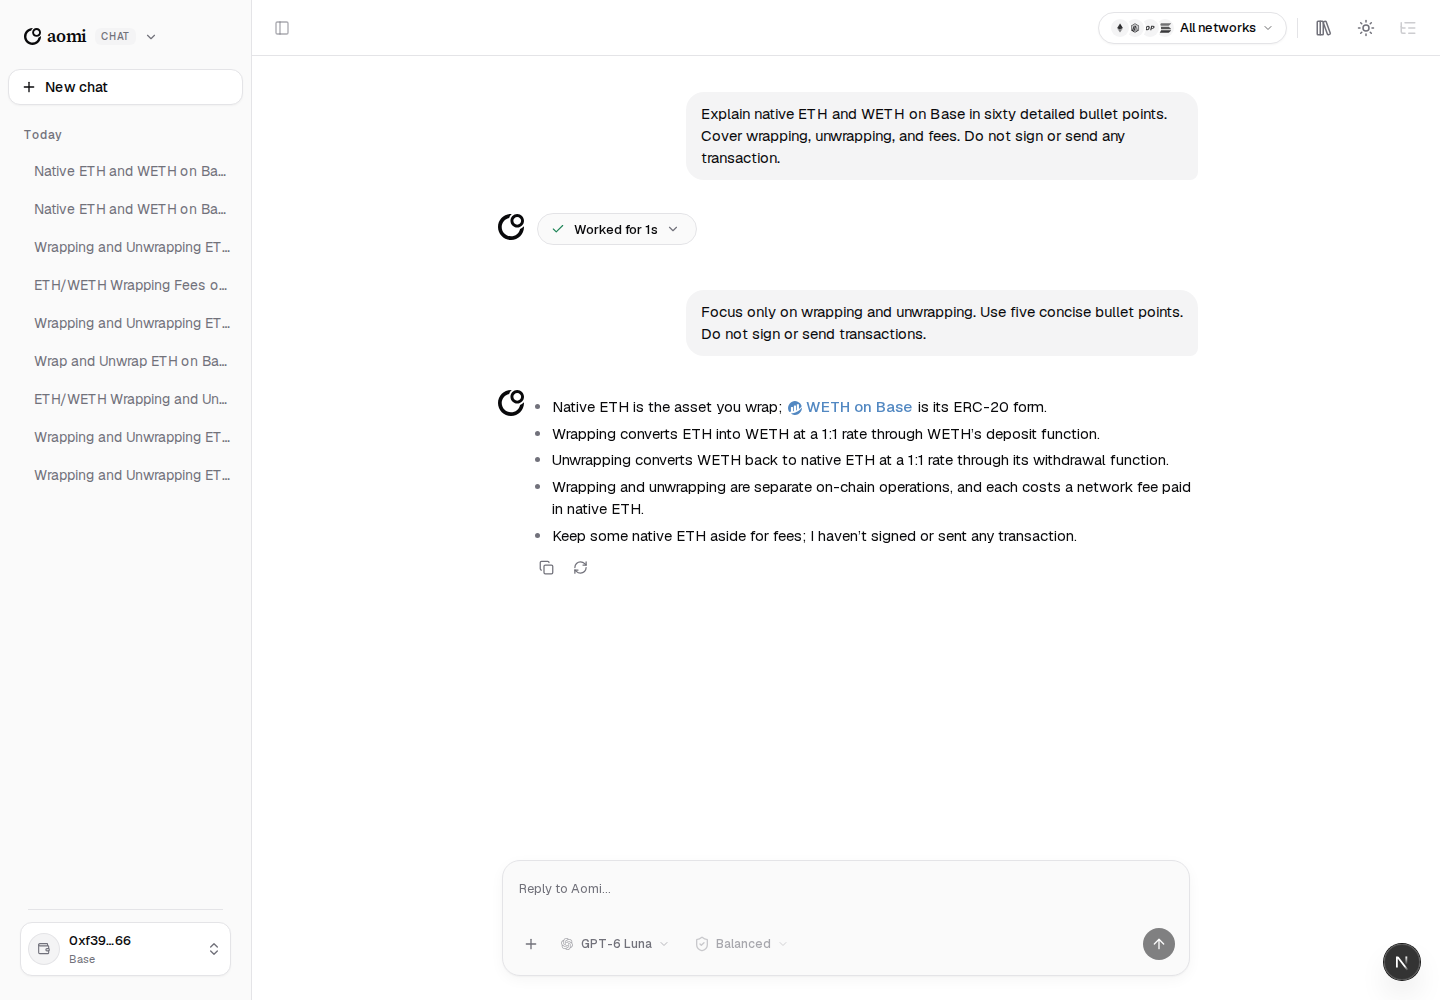
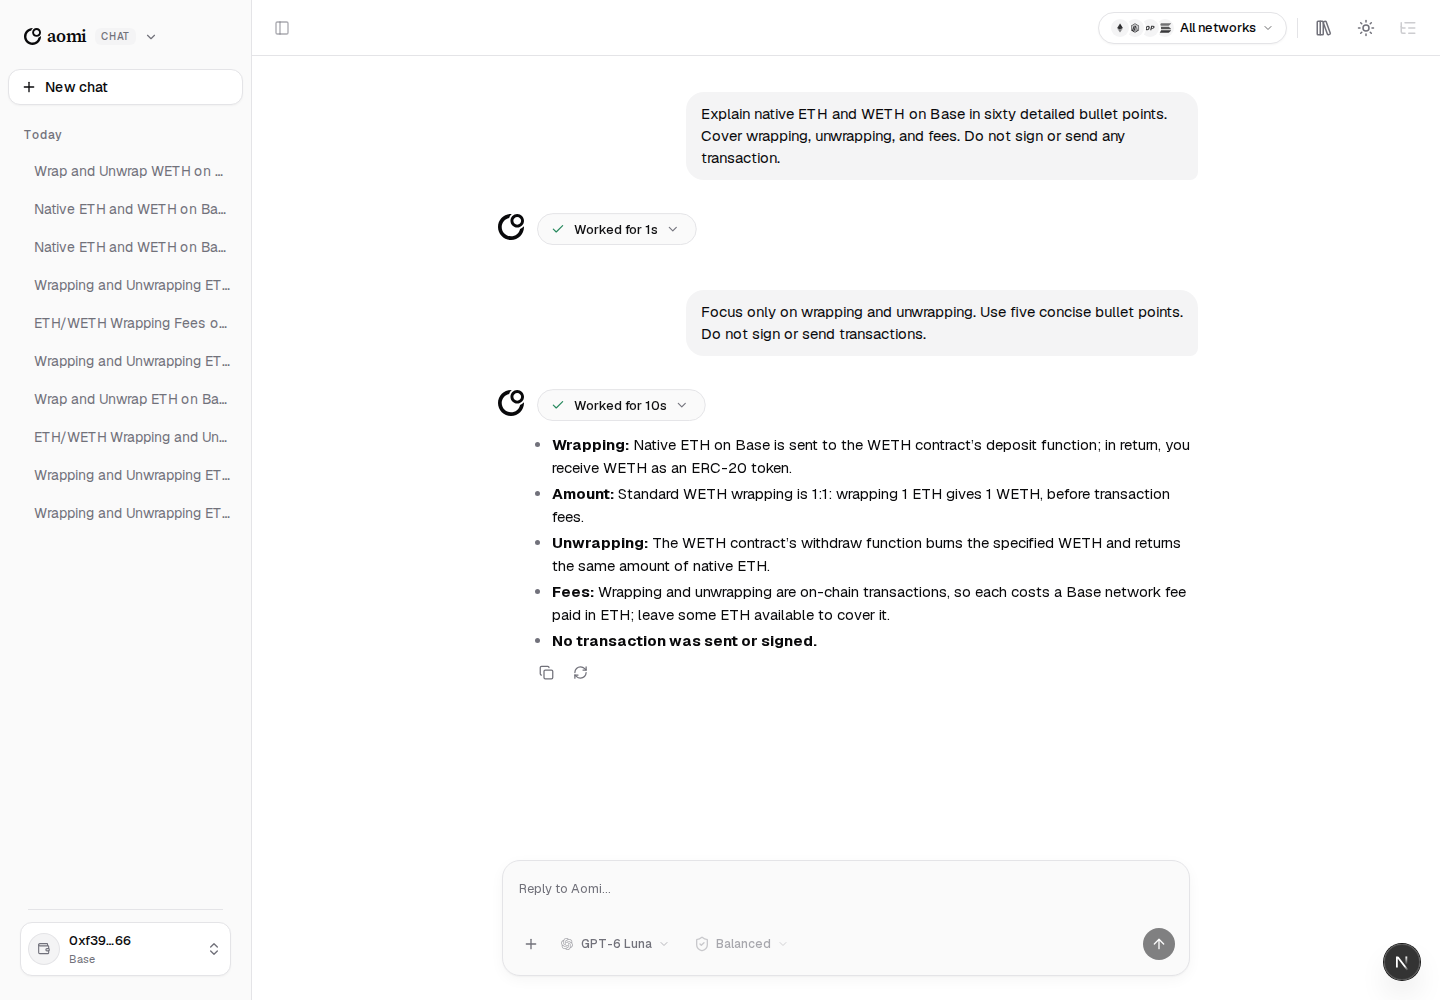
Retain the second working trace after a text-only answer and reload

diff --git a/packages/widget/src/thread/working-trace-integration.test.tsx b/packages/widget/src/thread/working-trace-integration.test.tsx
@@ -362,6 +362,24 @@ it("closes the earlier working trace and continues below an ordinary follow-up",
     ),
   );
   expect(rows[0].querySelector(".aui-working-answer")).toBeNull();
+  expect(view.container.querySelectorAll(".aui-working-trace")).toHaveLength(2);
+  expect(rows[1]).toHaveTextContent("Worked");
+  expect(
+    rows[1]
+      .querySelector(".aui-working-trace")
+      ?.compareDocumentPosition(rows[1].querySelector(".aui-working-answer")!),
+  ).toBe(Node.DOCUMENT_POSITION_FOLLOWING);
+
+  view.unmount();
+  const reloaded = render(<Fixture />);
+  await waitFor(() =>
+    expect(
+      reloaded.container.querySelectorAll(".aui-working-trace"),
+    ).toHaveLength(2),
+  );
+  expect(screen.getAllByTestId("assistant-row")[1]).toHaveTextContent(
+    "Checking Base instead",
+  );
 });
 
 it("retains the earlier empty thinking trace when a follow-up arrives immediately", async () => {

diff --git a/tests/e2e/journeys/shared-steering.spec.ts b/tests/e2e/journeys/shared-steering.spec.ts
@@ -38,6 +38,7 @@ test("ordinary follow-ups stay in the conversation between working traces", asyn
     widget.replies.filter({ hasText: "Research with 5 on Base" }),
   ).toBeVisible();
   await expect(widget.stop).toBeHidden();
+  await expect(widget.page.locator(".aui-working-trace")).toHaveCount(2);
 });
 
 test("an update that loses the completion race remains in the composer", async ({

diff --git a/packages/widget/src/thread/working-trace.tsx b/packages/widget/src/thread/working-trace.tsx
@@ -1150,7 +1150,9 @@ export const AssistantTurnParts: FC = () => {
   );
   return (
     <>
-      {(traceItems.length > 0 || closed) && (
+      {(traceItems.length > 0 ||
+        closed ||
+        (!live && trace?.aomiTraceSegment)) && (
         <WorkingTrace
           key="turn-trace"
           viewKey={messageId}

diff --git a/docs/reviews/shared-steering/README.md b/docs/reviews/shared-steering/README.md
@@ -5,7 +5,7 @@ Rust backend, not mockups. The existing composer and controls are retained.
 There are no Queue/Update buttons or accepted/applied status messages.
 
 The first Send was acknowledged with root
-`turn_705dc8c520ac474496d58791804f8eb7`, revision 1. Ordinary Send during active
+`turn_139fa2a9a991812c3a440b12907cbb6a`, revision 1. Ordinary Send during active
 work admitted the follow-up on **that same root at revision 2**. One Start and
 one Steer were observed; no separate request or queue entry was created.
 
@@ -15,7 +15,7 @@ starts below it:
 ![Follow-up between the earlier and continuing working traces](portal-working.png)
 
 The answer follows the revised five-bullet request. Reload retained both
-assistant segments and sent no new mutations:
+working traces, including the text-only continuation, and sent no new mutations:
 
 ![Completed answer after reload](portal-completed.png)
 

diff --git a/docs/topics/apps/facts/working-trace.md b/docs/topics/apps/facts/working-trace.md
@@ -23,7 +23,9 @@ and state marker. Portal and embedded widgets consume the same implementation.
 An ordinary message sent while work is active continues that request. The earlier
 working trace remains above the new user message, and subsequent work appears in
 a new trace below it. Results from calls already started remain with their
-original trace. The composer uses its existing Send and Stop controls; Queue and
+original trace. Both traces remain visible after completion and reload, including
+a text-only continuation; the final answer follows the second trace. The composer
+uses its existing Send and Stop controls; Queue and
 update acknowledgements are not part of the Portal or embedded widget UI.
 
 ## Transaction lifecycle
